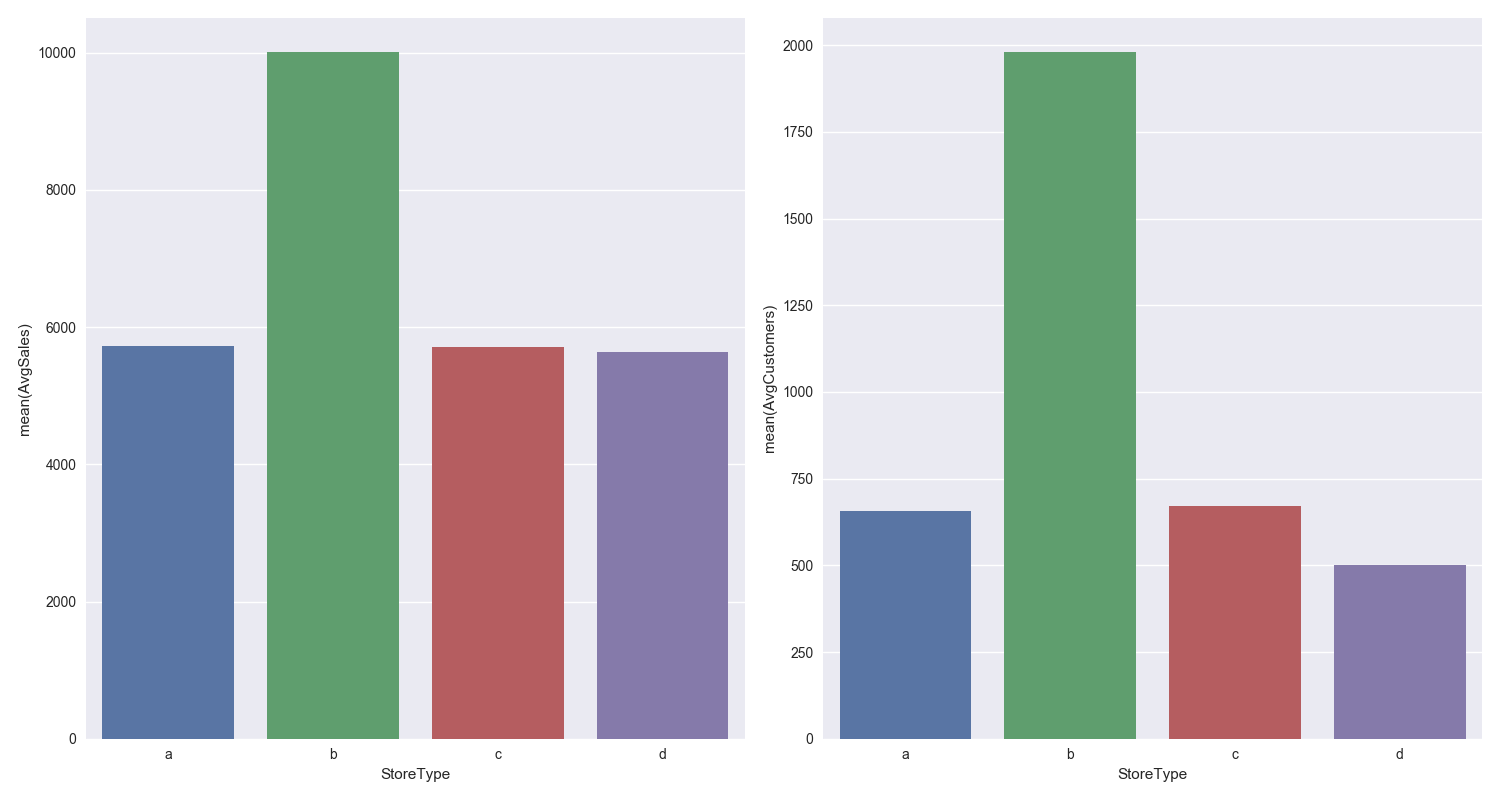
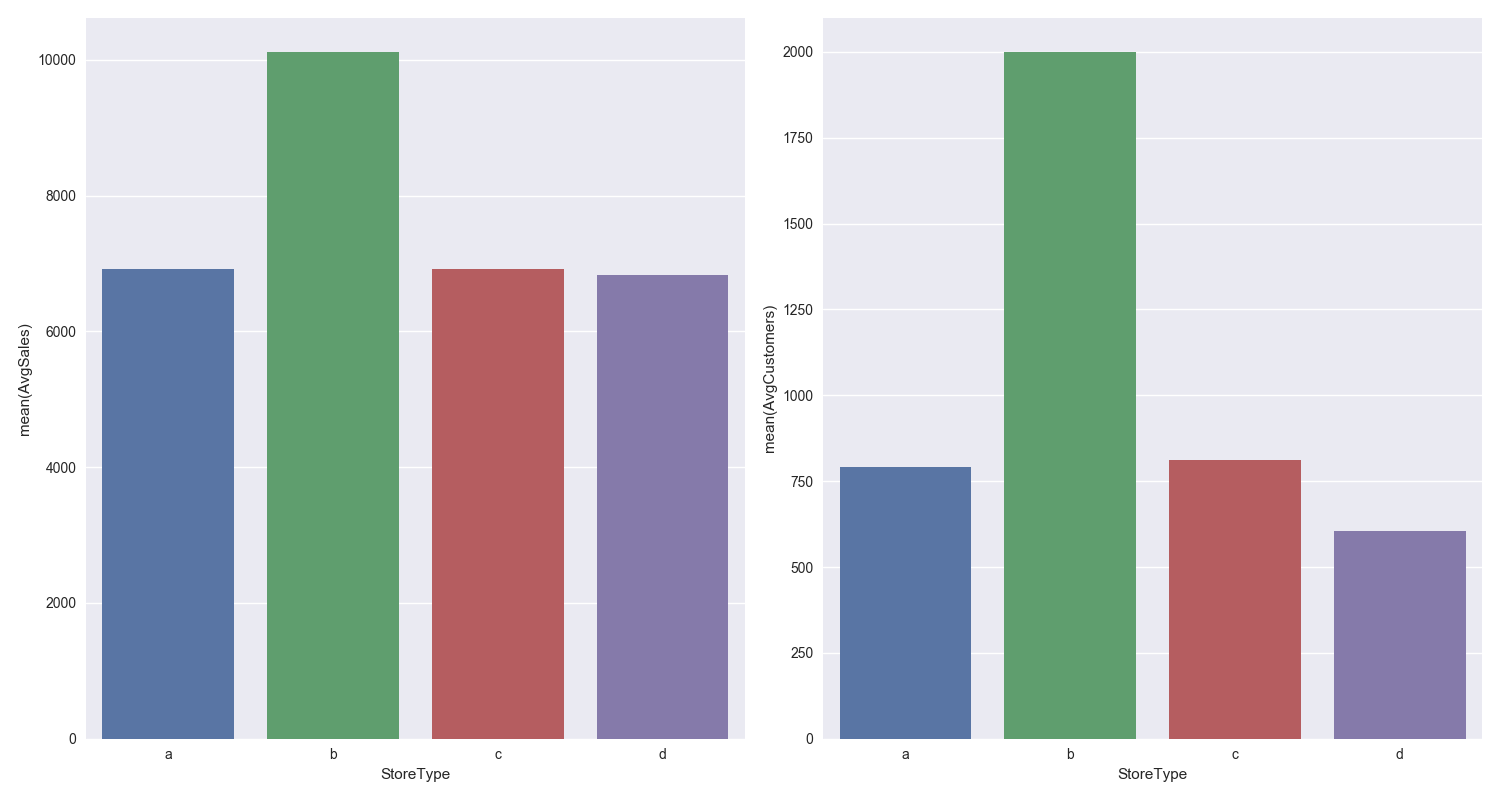
Updated Plots to Only Include Open Days for Store Metrics

diff --git a/generateplots.py b/generateplots.py
@@ -65,9 +65,15 @@ training_df_open.drop(["Open"], axis=1, inplace=True)
 ############################################
 
 # Add "AvgSales" & "AvgCustomers" columns to store_df
-avg_sales_customers = training_df.groupby("Store")[["Sales", "Customers"]].mean()
+avg_sales_customers = training_df_open.groupby("Store")[["Sales", "Customers"]].mean()
 avg_sales_customers_df = DataFrame({"Store": avg_sales_customers.index, "AvgSales": avg_sales_customers["Sales"], "AvgCustomers": avg_sales_customers["Customers"]}, columns=["Store", "AvgSales", "AvgCustomers"])
 store_df = pd.merge(avg_sales_customers_df, store_df, on="Store")
+
+# Add "AvgSalesPerCustomer" column to store_df
+store_tot_sales = training_df.groupby([training_df["Store"]])["Sales"].sum()
+store_tot_custs = training_df.groupby([training_df["Store"]])["Customers"].sum()
+store_salespercust = store_tot_sales / store_tot_custs
+store_df = pd.merge(store_df, store_salespercust.reset_index(name="AvgSalesPerCustomer"), on="Store")
 
 # Fill NaN values in store_df for "CompetitionDistance" = 0 (since no record exists where "CD" = NaN & "COS[Y/M]" = !NaN)
 store_df["CompetitionDistance"][is_nan(store_df["CompetitionDistance"])] = 0
@@ -178,6 +184,16 @@ fig.savefig("plots/Avg. Sales & Customers (by Promo).png", dpi=fig.dpi)
 fig.clf()
 plt.close(fig)
 print("Plotted Avg. Sales & Customers (by Promo)")
+
+# Generate plots for Avg. Sales & Customers (by Promo for Open Stores)
+fig, (axis1, axis2) = plt.subplots(1, 2, figsize=(15, 8))
+sns.barplot(x="Promo", y="Sales", data=training_df_open, ax=axis1, ci=None)
+sns.barplot(x="Promo", y="Customers", data=training_df_open, ax=axis2, ci=None)
+fig.tight_layout()
+fig.savefig("plots/Avg. Sales & Customers (by Promo for Open Stores).png", dpi=fig.dpi)
+fig.clf()
+plt.close(fig)
+print("Plotted Avg. Sales & Customers (by Promo for Open Stores)")
 
 
 ############################################
@@ -317,6 +333,45 @@ print("Plotted Frequency of Customers Values (for Open Stores)")
 
 
 ############################################
+# "AvgSales" Data Field                    #
+############################################
+
+fig, axis1 = plt.subplots(1, 1, figsize=(15, 8))
+sns.barplot(x="Store", y="AvgSales", data=store_df, ax=axis1, ci=None)
+fig.tight_layout()
+fig.savefig("plots/Avg. Sales (by Store).png", dpi=fig.dpi)
+fig.clf()
+plt.close(fig)
+print("Plotted Avg. Sales (by Store)")
+
+
+############################################
+# "AvgCustomers" Data Field                #
+############################################
+
+fig, axis1 = plt.subplots(1, 1, figsize=(15, 8))
+sns.barplot(x="Store", y="AvgCustomers", data=store_df, ax=axis1, ci=None)
+fig.tight_layout()
+fig.savefig("plots/Avg. Customers (by Store).png", dpi=fig.dpi)
+fig.clf()
+plt.close(fig)
+print("Plotted Avg. Customers (by Store)")
+
+
+############################################
+# "AvgSalesPerCustomer" Data Field         #
+############################################
+
+fig, axis1 = plt.subplots(1, 1, figsize=(15, 8))
+sns.barplot(x="Store", y="AvgSalesPerCustomer", data=store_df, ax=axis1, ci=None)
+fig.tight_layout()
+fig.savefig("plots/Avg. Sales per Customer (by Store).png", dpi=fig.dpi)
+fig.clf()
+plt.close(fig)
+print("Plotted Avg. Sales per Customer (by Store)")
+
+
+############################################
 # "StoreType" Data Field                   #
 ############################################
 
@@ -338,6 +393,15 @@ fig.savefig("plots/Avg. Sales & Customers (by Store Type).png", dpi=fig.dpi)
 fig.clf()
 plt.close(fig)
 print("Plotted Avg. Sales & Customers (by Store Type)")
+
+# Generate plot for Avg. Sales per Customer (by Store Type)
+fig, axis1 = plt.subplots(1, 1, figsize=(15, 8))
+sns.barplot(x="StoreType", y="AvgSalesPerCustomer", order=["a", "b", "c", "d"], data=store_df, ax=axis1, ci=None)
+fig.tight_layout()
+fig.savefig("plots/Avg. Sales per Customer (by Store Type).png", dpi=fig.dpi)
+fig.clf()
+plt.close(fig)
+print("Plotted Avg. Sales per Customer (by Store Type)")
 
 
 ############################################
@@ -362,6 +426,15 @@ fig.savefig("plots/Avg. Sales & Customers (by Assortment).png", dpi=fig.dpi)
 fig.clf()
 plt.close(fig)
 print("Plotted Avg. Sales & Customers (by Assortment)")
+
+# Generate plot for Avg. Sales per Customer (by Assortment)
+fig, axis1 = plt.subplots(1, 1, figsize=(15, 8))
+sns.barplot(x="Assortment", y="AvgSalesPerCustomer", order=["a", "b", "c"], data=store_df, ax=axis1, ci=None)
+fig.tight_layout()
+fig.savefig("plots/Avg. Sales per Customer (by Assortment).png", dpi=fig.dpi)
+fig.clf()
+plt.close(fig)
+print("Plotted Avg. Sales per Customer (by Assortment)")
 
 
 ############################################
@@ -487,131 +560,3 @@ fig.savefig("plots/Correlation Matrix (Stores 1 - 100).png")
 fig.clf()
 plt.close(fig)
 print("Plotted Correlation Matrix (Stores 1 - 100)")
-
-
-############################################
-# Sales Trends On a Per Day Basis          #
-############################################
-
-store_data_sales = training_df.groupby([training_df["Store"]])["Sales"].sum()
-store_data_customers = training_df.groupby([training_df["Store"]])["Customers"].sum()
-store_data_open = training_df.groupby([training_df["Store"]])["Open"].count()
-
-store_data_sales_per_day = store_data_sales / store_data_open
-store_data_customers_per_day = store_data_customers / store_data_open
-store_data_sales_per_customer_per_day = store_data_sales_per_day / store_data_customers_per_day
-
-merged_df = pd.merge(store_df, store_data_sales_per_day.reset_index(name="AvgSalesForOpenDays"), how="left", on=["Store"])
-merged_df = pd.merge(merged_df, store_data_customers_per_day.reset_index(name="AvgCustomersForOpenDays"), how="left", on=["Store"])
-merged_df = pd.merge(merged_df, store_data_sales_per_customer_per_day.reset_index(name="AvgSalesPerCustomerForOpenDays"), how="left", on=["Store"])
-
-fig, axis1 = plt.subplots(1, 1, figsize=(15, 8))
-sns.barplot(x="Store", y="AvgSalesForOpenDays", data=merged_df, ax=axis1, ci=None)
-fig.tight_layout()
-fig.savefig("plots/Avg. Sales for Open Days (by Store).png", dpi=fig.dpi)
-fig.clf()
-plt.close(fig)
-
-fig, axis1 = plt.subplots(1, 1, figsize=(15, 8))
-sns.barplot(x="Store", y="AvgCustomersForOpenDays", data=merged_df, ax=axis1, ci=None)
-fig.tight_layout()
-fig.savefig("plots/Avg. Customers for Open Days (by Store).png", dpi=fig.dpi)
-fig.clf()
-plt.close(fig)
-
-fig, axis1 = plt.subplots(1, 1, figsize=(15, 8))
-sns.barplot(x="Store", y="AvgSalesPerCustomerForOpenDays", data=merged_df, ax=axis1, ci=None)
-fig.tight_layout()
-fig.savefig("plots/Avg. Sales per Customer for Open Days (by Store).png", dpi=fig.dpi)
-fig.clf()
-plt.close(fig)
-
-fig, axis1 = plt.subplots(1, 1, figsize=(15, 8))
-sns.barplot(x="StoreType", y="AvgSalesForOpenDays", order=["a", "b", "c", "d"], data=merged_df, ax=axis1, ci=None)
-fig.tight_layout()
-fig.savefig("plots/Avg. Sales for Open Days (by Store Type).png", dpi=fig.dpi)
-fig.clf()
-plt.close(fig)
-
-fig, axis1 = plt.subplots(1, 1, figsize=(15, 8))
-sns.barplot(x="StoreType", y="AvgCustomersForOpenDays", order=["a", "b", "c", "d"], data=merged_df, ax=axis1, ci=None)
-fig.tight_layout()
-fig.savefig("plots/Avg. Customers for Open Days (by Store Type).png", dpi=fig.dpi)
-fig.clf()
-plt.close(fig)
-
-fig, axis1 = plt.subplots(1, 1, figsize=(15, 8))
-sns.barplot(x="StoreType", y="AvgSalesPerCustomerForOpenDays", order=["a", "b", "c", "d"], data=merged_df, ax=axis1, ci=None)
-fig.tight_layout()
-fig.savefig("plots/Avg. Sales per Customer for Open Days (by Store Type).png", dpi=fig.dpi)
-fig.clf()
-plt.close(fig)
-
-############################################
-# Sales vs DaysSinceStartOfTrainingSet     #
-############################################
-
-store_data = training_df
-
-DateTime = store_data["Date"].apply(lambda x: (dt.datetime.strptime(x, "%Y-%m-%d")))
-minDateTime = min(DateTime)
-store_data["DaysSinceStartOfTrainingSet"] = store_data["Date"].apply(lambda x: int((dt.datetime.strptime(x, "%Y-%m-%d") - minDateTime).days) + 1)
-AvgSales = store_data.groupby("DaysSinceStartOfTrainingSet")["Sales"].mean()
-
-fig, (axis1) = plt.subplots(1, 1, figsize=(15, 8))
-ax = AvgSales.plot(legend=True, marker="x", ax=axis1)
-ax.set_xticks(range(len(AvgSales))[0::100])
-ax.set_xticklabels(AvgSales.index.tolist()[0::100], rotation=90)
-
-fig.tight_layout()
-fig.savefig("plots/Avg. Sales vs DaysSinceStartOfTrainingSet.png", dpi=fig.dpi)
-fig.clf()
-plt.close(fig)
-print("Plotted Avg. Sales vs DaysSinceStartOfTrainingSet.")
-
-############################################
-# Sales vs log(DaysSinceStartOfTrainingSet)#
-############################################
-
-store_data = training_df
-
-DateTime = store_data["Date"].apply(lambda x: (dt.datetime.strptime(x, "%Y-%m-%d")))
-minDateTime = min(DateTime)
-store_data["DaysSinceStartOfTrainingSet"] = store_data["Date"].apply(lambda x: int((dt.datetime.strptime(x, "%Y-%m-%d") - minDateTime).days) + 1)
-store_data["LogDaysSinceStartOfTrainingSet"] = np.log1p(store_data["DaysSinceStartOfTrainingSet"])
-store_data["LogSales"] = np.log1p(store_data["Sales"])
-AvgSales = store_data.groupby("LogDaysSinceStartOfTrainingSet")["LogSales"].mean()
-import math
-fig, (axis1) = plt.subplots(1, 1, figsize=(15, 8))
-ax = AvgSales.plot(legend=True, marker="x", ax=axis1)
-ax.set_xticks(range(8))
-ax.set_xticklabels(AvgSales.index.tolist()[0:8], rotation=90)
-
-fig.tight_layout()
-fig.savefig("plots/Avg. Log Sales vs Log DaysSinceStartOfTrainingSet.png", dpi=fig.dpi)
-fig.clf()
-plt.close(fig)
-print("Plotted Avg. Log Sales vs Log DaysSinceStartOfTrainingSet.")
-
-############################################
-# Sales vs log(DaysSinceStartOfTrainingSet)#
-############################################
-
-store_data = training_df
-
-DateTime = store_data["Date"].apply(lambda x: (dt.datetime.strptime(x, "%Y-%m-%d")))
-minDateTime = min(DateTime)
-store_data["DaysSinceStartOfTrainingSet"] = store_data["Date"].apply(lambda x: int((dt.datetime.strptime(x, "%Y-%m-%d") - minDateTime).days) + 1)
-store_data["LogDaysSinceStartOfTrainingSet"] = np.log1p(store_data["DaysSinceStartOfTrainingSet"])
-AvgSales = store_data.groupby("LogDaysSinceStartOfTrainingSet")["Sales"].mean()
-import math
-fig, (axis1) = plt.subplots(1, 1, figsize=(15, 8))
-ax = AvgSales.plot(legend=True, marker="x", ax=axis1)
-ax.set_xticks(range(8))
-ax.set_xticklabels(AvgSales.index.tolist()[0:8], rotation=90)
-
-fig.tight_layout()
-fig.savefig("plots/Avg. Sales vs Log DaysSinceStartOfTrainingSet.png", dpi=fig.dpi)
-fig.clf()
-plt.close(fig)
-print("Plotted Avg. Sales vs Log DaysSinceStartOfTrainingSet.")
